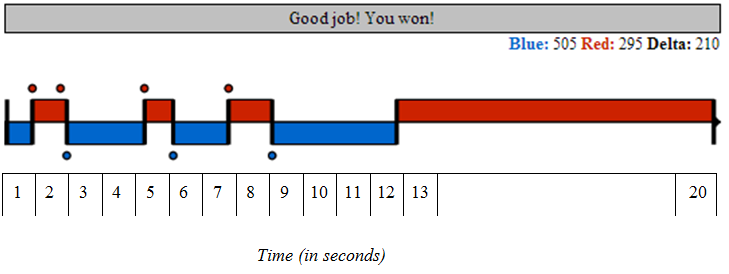
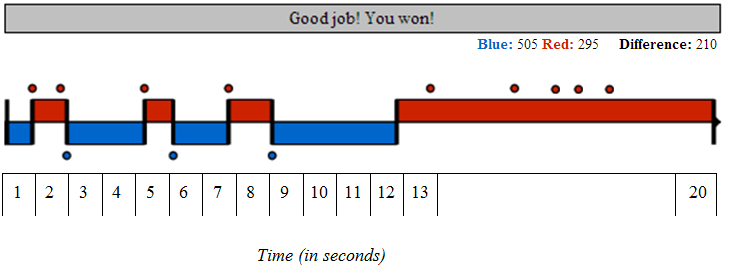
Show computer flips at end of game, updated images

diff --git a/js/drawflipit.js b/js/drawflipit.js
@@ -136,11 +136,13 @@ function FlipItRenderEngine( renderSettings ) {
     }
 
     // Draw fog of war as long as the game is still running
-    if ( fogOfWar && ( ticks != numTicks ) ) {
-      var x = this.revealed;
-      var l = ticks - this.revealed;
-      drawRect( context, mapX(x), h - h/3, mapX(l), -h/6, "grey");
-      drawRect( context, mapX(x), h/3, mapX(l), h/6, "grey" );
+    if ( ( ticks != numTicks ) ) {
+		 if(fogOfWar) {
+			var x = this.revealed;
+			var l = ticks - this.revealed;
+			drawRect( context, mapX(x), h - h/3, mapX(l), -h/6, "grey");
+			drawRect( context, mapX(x), h/3, mapX(l), h/6, "grey" );
+		 }
     }
 
     drawHLine( context, mapX(ticks), h/3, h/3);
@@ -148,6 +150,26 @@ function FlipItRenderEngine( renderSettings ) {
     drawArrow( context, 0, h/2, w, h/2 );
     drawHLine( context, 3, h/3, h/3 )
   };
+
+	//this function fills in circules for the flips made at the 
+	//end of the game that you did not see
+  this.drawEnd = function(ticks, flips) {
+    var context = board[0].getContext("2d");
+    var w = board.width();
+    var h = board.height();
+
+    // maps ticks in the game state to x-coordines on the board
+    var mapX = function( tick ){
+        return (tick/numTicks) * ( w - rightMargin );
+    };   
+    for ( var tick = 0; tick < ticks; tick++ ) {
+      if ( tick in flips ) {
+        var x = mapX(tick);
+          if ( flips[tick] == "Y" ) drawCircle( context, yColor, circleSize, x, h/4); 
+          if ( flips[tick] == "X" ) drawCircle( context, xColor, circleSize,  x, 3*h/4); 
+     }         
+  }
+};
 }
 
 /**
@@ -169,7 +191,7 @@ function ScoreBoard( scoreBoardElement, xColor, yColor ) {
     output += " ";
     output += "<b><font color="+yColor+">Red:</font></b> "+yScore;
     output += " ";
-    output += "<b><font color='black'>Delta:</font></b> "+ (xScore - yScore);
+    output += "<b><font color='black'>&nbsp;&nbsp;&nbsp;&nbsp;Difference:</font></b> "+ (xScore - yScore);
 
     output += "</br>";
 

diff --git a/js/flipit.js b/js/flipit.js
@@ -62,6 +62,7 @@ function FlipItGame( renderer, playerX, playerY, scoreBoardFunct) {
       this.running = true;
 
       renderer.newBoard();
+		this.numTicks = numTicks;
 
       var self = this; //Save the current context
       this.clock = setInterval( function(){ self.tick( numTicks ); }, msPerTick);
@@ -74,8 +75,11 @@ function FlipItGame( renderer, playerX, playerY, scoreBoardFunct) {
   this.endGame = function() {
     clearInterval( this.clock );
     this.running = false;
-	 Players.periodicPlayerTick = Math.floor((Math.random()*400)+100);
-	 Players.anchor = Math.floor((Math.random()*400));
+	 this.resetAnchorAndPPT();
+
+	 renderer.drawEnd(this.numTicks, this.flips);
+	 //renderer.drawBoard(this.numTicks, this.flips);
+
 
     if ( scoreBoardFunct != null ) scoreBoardFunct( this.xScore, this.yScore );
   };
@@ -139,9 +143,4 @@ var Players = {
   "randomPlayer":function( ticks ){ if(ticks % 79 == 0) return Math.random(ticks) < 0.3; },
 
   "periodicPlayer":function( ticks ){ var anchor = Players['anchor']; var ppt = Players['periodicPlayerTick']; if(ticks >= anchor && (((anchor - ticks) % ppt) == 0)) {return true;}return false; }
-//  ,"periodicPlayer": function (t) {return false;}
   };
-
-
-
-

diff --git a/instructions.php b/instructions.php
@@ -4,24 +4,16 @@
 You will be playing multiple rounds of a two-player game called FlipIt. The objective of FlipIt is to gain and maintain possession of the game board. 
 
 Until you take an action, the state of possession of the game board is hidden from your view. In this state, the board is shown in gray color. 
-
+                                                                   <br>
 The only action you have available is to 'flip' the game board. When you flip the board, it will be shown to you who had possession of the game board until this very moment. This information will only be shown to you and not your opponent. At the same time, you also gain possession of the board, or maintain possession if you already owned the board.
-
+                                                                   <br>
 The same rules apply to your opponent. That is, you cannot observe if and when the opponent flipped the board in the past, until you take the action to flip the board yourself.
-
+                                                                   <br>
 Below, we break down the rules in more detail.
 </li></ul>
 
  <h2>Detailed Rules</h2>
  <ul>
-	<li>
-	  <h3>How to Win</h3>
-	  <p>
-	  The object of the game is to win as many points as possible.
-	  To win you want to be in control for as long as possible using as few flips as possible.
-	  </p>
-	</li>
-	
 	<li>
 	  <h3>Points</h3>
 	  <p>
@@ -32,6 +24,8 @@ Below, we break down the rules in more detail.
 	  You pay <b>100</b> points when you play 'flip'.
 	  <br><br>
 	  You begin with <b>0</b> points. Scores are updated when you play a 'flip' and at the end of the game.
+	  <br>
+	  <br>
 	  </p>
 	</li>
 	
@@ -48,15 +42,14 @@ Below, we break down the rules in more detail.
 	<li>
 	  <h3>The Board</h3>
 	  <p>
-	  The board displays the current known information about the game.
+	  The board displays the current known information about the game, including your points, the points of the red player, and the difference between your points and the points of the red player.
 	  Each 'flip' played is marked with a dot.
 	  You can only see information that was revealed by your flips.
 	  Blue rectangles represent periods of time in which you, the blue player, had control. 
 	  Red rectangles represent periods of time in which the red player was in control.
-	  The score is given in the upper left hand corner.
 	  </p>
 
-	  <h2>An example game:</h2>
+	  <h2 style='position:relative;left:-40px'>An example game:</h2>
 	  <h4>The game in progress:</h4>
 	  <img src='images/midgame.png' width='800' />
 
@@ -89,17 +82,17 @@ Below, we break down the rules in more detail.
 			<i>9th second:</i> The blue player plays 'flip' and regains control. He maintains control for 4 seconds.
 		 </li>                                                          
 		 <li>
-			<i>12th second:</i> The red player plays 'flip' and regains control. He maintains control for the rest of the game.
+			<i>12th second:</i> The red player plays 'flip' and regains control. He maintains control for the rest of the game. He makes a number of flips in which he maintains control.
 		 </li>                                                          
 		 <li>
 			<i>20th second:</i> The game ends.
 		 </li>
 	  </ul>
 	  <p> 
-	  The blue player was in control for <b>8.05</b> seconds earning <b>805</b> points, and played 'flip' 3 times, costing <b>300</b> points. This gives him a total score of <b>500</b> points.
+	  The blue player was in control for <b>8.05</b> seconds earning <b>805</b> points, and played 'flip' 3 times, costing <b>300</b> points. This gives him a total score of <b>505</b> points.
 	  </p>
 	  <p>
-	  The blue player was in control for <b>6.95</b> seconds earning <b>695</b> points, and played 'flip' 4 times, costing <b>400</b> points. This gives him a total score of <b>295</b> points.
+	  The red player was in control for <b>11.95</b> seconds earning <b>1195</b> points, and played 'flip' 9 times, costing <b>900</b> points. This gives him a total score of <b>295</b> points.
 	  </p>
 	  <p>
 	  The blue player has more points than the red player and thus wins.
@@ -109,8 +102,10 @@ Below, we break down the rules in more detail.
 	<li>
 	  <h3>Payment</h3> 
 	  <p>
-You will be compensated according to your performance in this study. For completing the task, you are guaranteed the amount listed on the Mechanical Turk HIT that you've accepted, and, you will be paid an additional sum based on your performance in the game. You will be notified of the additional amount at the completion of the game. The more total points you earn during the games, the more money you will receive.
-
+You will be compensated according to your performance in this study. For completing the study, you are guaranteed the amount listed on the Mechanical Turk HIT that you have accepted, and you will be paid an additional sum based on your performance.<br> 
+You will participate in multiple rounds of the game. At first, you will participate in a practice round without a bonus payment to familiarize yourself with the interface. Then, you will participate in several additional rounds. You can receive a bonus payment for your performance in each of those rounds.<br>
+You can increase your bonus payment in a given round by performing well compared to the red player. If you lose by more than 1000 points, however, you will receive no bonus payment for that round.<br> 
+The exchange rate for points into the bonus payment is 1 cent for 100 points. For example, you would earn a bonus payment of 10 cents by gaining exactly as many points as the red player. If you outperform your opponent by 500 points you would earn 15 cents. If you underperform you opponent by 500 points you would earn 5 cents.<br> 
 	  </p>
  </ul>
 </div> 

diff --git a/index.php b/index.php
@@ -42,9 +42,8 @@
 		unset($_REQUEST['action']);
 		unset($_REQUEST['prevPage']);
 
-		sanitizeParams(array('mturk_id','forceNewSession', 'prevPage','action'));
+		sanitizeParams(array('mturk_id','forceNewSession', 'prevPage','action', 'hit_id'));
       integrityCheck();
-
 
 		collapseScale('rps', 9);
 		collapseScale('nfc', 9);
@@ -70,7 +69,6 @@
 		$treatment_message = $treatment['message'];
 
 		if(!array_key_exists('session_id', $_COOKIE)) {
-		//if(array_key_exists('forceNewSession', $_REQUEST)) {
 			$db = db_connect();
 			$session_id = startGameSession($db, $mturk_id, $survey_blob, $treatment_id, false);
 			setcookie('session_id', $session_id);
@@ -88,6 +86,7 @@
 					die('<script>alert("You have answered an integrity question incorrectly. Please go back to the survey and read the directions carefully. Then, check your answers and try again to submit.");window.history.back(-1);</script>');
 
 				}
+				unset($_REQUEST[$k]);
 			}
 		}
 	}
@@ -186,7 +185,7 @@
 			var started = false;
 			var blueScores = [];
 			var redScores = [];
-			var endMsgDisplayed = 'N/A';
+			var endMsgDisplayed = 'No';
 			var firstTime = true;
 			window.game = game;
 
@@ -215,7 +214,6 @@
 					 if(flips != '') {
 						 replaceOppParams();
 
-						 //make it so this is only called once
 						 handleSessionChange(session_id);
 
 						 blueScores.push(game.xScore);
@@ -226,6 +224,9 @@
 						 $('#flash').css('visibility', 'visible');
 						 $('#flash').html(endMsg);
 						 $('#flash').css('text-align','center');
+						 endMsgDisplayed = 'Yes';
+					 }
+					 else {
 						 endMsgDisplayed = 'Yes';
 					 }
 
@@ -292,7 +293,7 @@
 		}   
 
 		function pluralize_stupid(num, word) {
-      	return (num > 1) ? word+'s': word;
+      	return (num != 1) ? word+'s': word;
 		}
 
 		function value_and_plural(num, word) {
@@ -313,16 +314,17 @@
             var infoString = '';
 
 				if(num_practice_runs_remaining > 0) {
-            	infoString = value_and_plural(num_practice_runs_remaining, 'practice run')+' left';
-					$('h1#title').html('FlipIt - Practice game');
+            	infoString = value_and_plural(num_practice_runs_remaining, 'practice round')+' left';
+					$('h1#title').html('Round for Practice');
 					$('h1#title').css('color', '#CC1100');
 				}
 				else {
-					$('h1#title').html('FlipIt - Real game');
+					$('h1#title').html('Round with Bonus Payment');
+					$('h1#title').css('color', '#000000');
 					if(num_practice_runs_remaining == 0) {
-               	alert('Each game you play from now on will be counted. Results of these games will affect your bonus payment. You must play '+value_and_plural(num_runs_remaining, 'more run')+' in order to be paid.');
+               	alert('Each round you play from now on will be counted. Results of these rounds will affect your bonus payment. You must play '+value_and_plural(num_runs_remaining, 'more round')+' in order to be paid.');
 					}
-					infoString = value_and_plural(num_runs_remaining, 'run')+' left, '+value_and_plural(session_stats['num_runs_played'],'run')+' played';
+					infoString = value_and_plural(num_runs_remaining, 'round')+' left, '+value_and_plural(session_stats['num_runs_played']-session_stats['NUM_PRACTICE_RUNS'],'round')+' played';
 				}
 
 				$('#statsBox').html(' ('+infoString+')');
@@ -344,7 +346,7 @@
 			}
 			msg += ' '+paystring;
 			
-			msg += ' You will also be paid the amount specified in the HIT that you accepted (if your session is found to be legitimate). Please copy this message for your records and close the window.</h1>';
+			msg += ' You will also be paid the amount specified in the HIT that you accepted. Please copy this message for your records and close the window.</h1>';
 			$('html').html(msg);
 			window.open('', '_self', '');
 //			window.close(); 

diff --git a/dbLayer.php b/dbLayer.php
@@ -82,13 +82,17 @@ function getSessionStats($db, $session_id) {
 
 	$stats['num_runs_played'] = intval($count);
 
-  	if($stats['num_runs_played']) {
-   	$stats['bonus'] = getBonus($db, $session_id);
-	}
 	
 	$stats['session_id'] = intval($session_id);
 	$stats['num_runs_remaining'] = MAX_RUNS_PER_SESSION - $count;
 	$stats['num_practice_runs_remaining'] = NUM_PRACTICE_RUNS - $count;
+
+  	if($stats['num_runs_remaining'] == 0) {
+   	$stats['bonus'] = getBonus($db, $session_id);
+	}                                   
+
+	$stats['NUM_PRACTICE_RUNS'] = NUM_PRACTICE_RUNS;
+
 	logMessageAndDie(json_encode($stats));
 }
 
@@ -160,12 +164,16 @@ function getBonus($db, $session_id) {
    	return $data[0]['amount'];
 	}
 
-	$q = "SELECT session_id, run_id, blue_score, treatment_id, mturk_id FROM gameResult, gameRun, gameSession WHERE gameRun.id = gameResult.run_id AND gameRun.session_id = gameSession.id AND session_id=$session_id";	
+	$q = "SELECT blue_score, red_score, treatment_id, survey_blob FROM gameResult, gameRun, gameSession WHERE gameRun.id = gameResult.run_id AND gameRun.session_id = gameSession.id AND session_id=$session_id";	
 	$data = runQuery($db, $q);
+
+	if(!$data) {
+   	return 'NULL';
+	}
 
 	$total_delta = 0;
 	$deltas = array();
-
+	
    for($i=0;$i<count($data);$i++) {
 		//don't include score from practice rounds
 		if($i<NUM_PRACTICE_RUNS) {
@@ -178,30 +186,37 @@ function getBonus($db, $session_id) {
 		$bs = $bs[count($bs)-1];
 
 		$rs = json_decode($row['red_score']);
-		$rs = $bs[count($rs)-1];
+		$rs = $rs[count($rs)-1];
 
-		$deltas[] = $bs-$rs;
+		array_push($deltas, $bs-$rs);
 	}
-
+   
 	$deltas = array_map(function($a) {
-		return max(0, $a);
+		return max(0, 1000+$a);
 	}, $deltas);
+   
 
-	$total_delta = array_reduce($deltas, function($total, $item) {
-   	$total += $item;
-	}, 0);
+	foreach($deltas as $delta) {
+   	$total_delta += $delta;
+	}
 
 	$bonus = $total_delta * POINTS_EXCHANGE_RATE; 
 	$bonus = max(0, $bonus);
 	$bonus = sprintf("$%0.2f", $bonus);
 
-	recordbonus($db, $bonus, $mturk_id, $session_id, $data[0]['treatment_id']);
+	$json_blob = $data[0]['survey_blob'];
+	$json_blob = json_decode($json_blob, true);
+
+	$hit_id = $json_blob['hit_id'];
+	$mturk_id = $json_blob['mturk_id'];
+
+	recordbonus($db, $mturk_id, $hit_id, $bonus, $session_id, $data[0]['treatment_id']);
 
 	return $bonus;
 }
 
-function recordbonus($db, $bonus, $mturk_id, $session_id) {
-	$q = "INSERT INTO bonus (mturk_id, amount, session_id, finished) VALUES ('$mturk_id', '$bonus', $session_id, now())";
+function recordbonus($db, $mturk_id, $hit_id, $bonus, $session_id, $treatment_id) {
+	$q = "INSERT INTO bonus (mturk_id, hit_id, amount, session_id, treatment_id, finished) VALUES ('$mturk_id', '$hit_id', '$bonus', $session_id, $treatment_id, now())";
 
 	runQuery($db, $q, false);
 }

diff --git a/consentForm.php b/consentForm.php
@@ -39,9 +39,15 @@
 	<li>
 	<strong>Right to Ask Questions:</strong> Please contact Alan Nochenson at anochenson@psu.edu with questions or concerns about this study. </li>
 	<li>
-	<strong>Payment for participation:</strong> You will be compensated according to your performance in this study. For completing the task, you are guaranteed the amount listed on the Mechanical Turk HIT that you've accepted, and, you will be paid an additional sum based on your performance in the game. You will be notified of the additional amount at the completion of the game. The more total points you earn during the games, the more money you will receive.</li>
+	<strong>Payment for participation:</strong>
+You will be compensated according to your performance in this study. For completing the study, you are guaranteed the amount listed on the Mechanical Turk HIT that you have accepted, and you will be paid an additional sum based on your performance.<br> 
+You will participate in multiple rounds of the game. At first, you will participate in a practice round without a bonus payment to familiarize yourself with the interface. Then, you will participate in several additional rounds. You can receive a bonus payment for your performance in each of those rounds.<br>
+You can increase your bonus payment in a given round by performing well compared to the red player. If you lose by more than 1000 points, however, you will receive no bonus payment for that round.<br> 
+The exchange rate for points into the bonus payment is 1 cent for 100 points. For example, you would earn a bonus payment of 10 cents by gaining exactly as many points as the red player. If you outperform your opponent by 500 points you would earn 15 cents. If you underperform you opponent by 500 points you would earn 5 cents.<br>
+</li>
+ 
 	<li>
-	<strong>Voluntary Participation:</strong> Your decision to be in this research is voluntary. You can stop at any time. You do not have to answer any questions you do not want to answer. If this is the case, please abandon the Mechanical Turk HIT and exit the survey or game.</li>
+	<strong>Voluntary Participation:</strong> Your decision to take part in this research is voluntary. You can stop at any time. You do not have to answer any questions you do not want to answer. If this is the case, please abandon the Mechanical Turk HIT and exit the survey or game.</li>
 		<li>
 		You must be 18 years of age or older to consent to take part in this research study.&nbsp; If you agree to take part in this research study and to the conditions outlined above, please click the button below. If you do not consent, please exit the survey now and abandon the Mechanical Turk HIT.</li>
 	</ol>

diff --git a/survey/SurveyParts.class.php b/survey/SurveyParts.class.php
@@ -15,6 +15,7 @@ class SurveyParts {
 		$demo = array('pre' => $demoPre, 'title' => 'Survey',
 		'data' => array(
 			'mturk_id' => array('label' => "What is your Mechanical Turk ID?"),
+			'hit_id' => array('label' => 'Which HIT did you accept to get here?'),
 			'age' => array('label' => 'What is your age (in years)?'),
 			'gender' => array('type' => 'radio', 'options' => array('Male', 'Female', 'Decline to answer')),
 			'education' => array('label' => 'What is the highest level of education that you have completed?', 'type' => 'radio', 'options' => array('Some high school', 'High school', 'Some college', 'Two year college degree', 'Four year college degree', 'Graduate or professional degree')),
